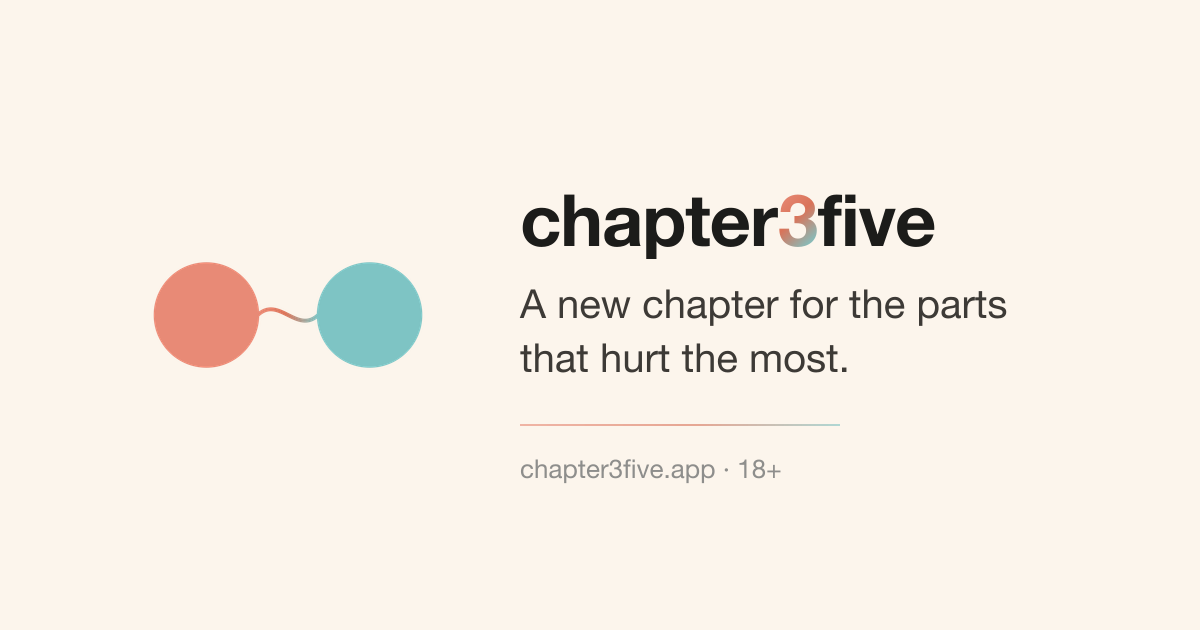
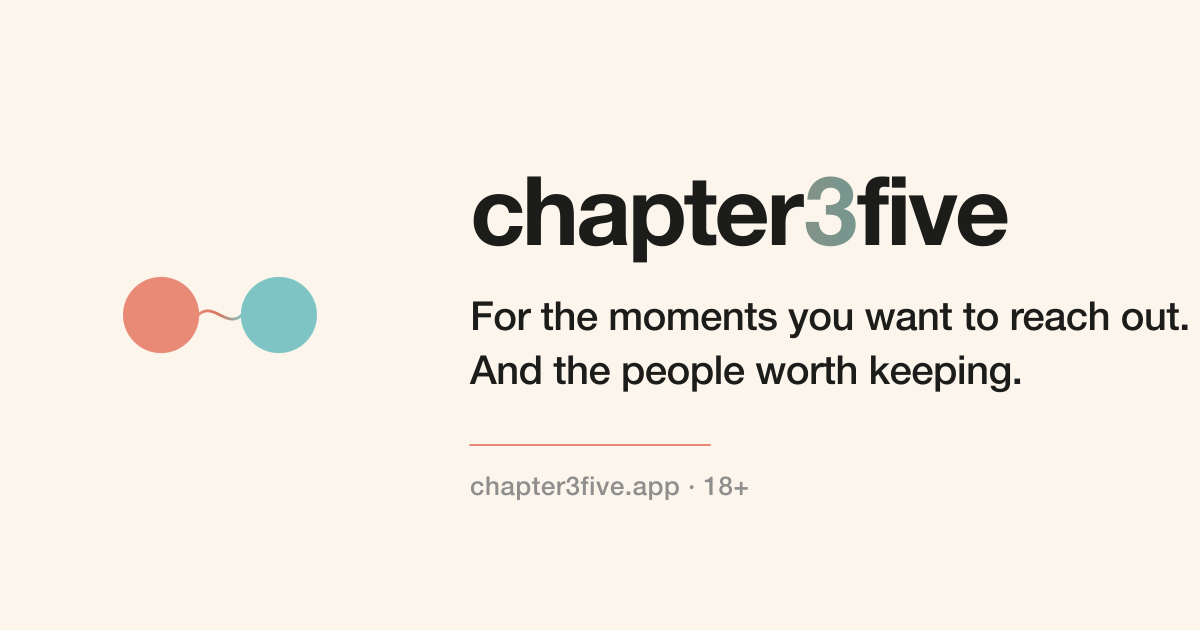
retire "hurt the most" tagline — reframe around reaching out
The old tagline positioned the product as profiting off the worst
moments of life. Replaced everywhere it lived: OG + twitter images,
root metadata description + twitter description, landing "chapter 35"
founder section headline + closing italic.

New line: "For the moments you want to reach out. And the people
worth keeping." Warm, positive-framed, describes what the app is
FOR without turning grief into a sales angle.

Changed region(s): [[0.0925, 0.3921, 0.9867, 0.6333], [0.37, 0.2714, 0.8633, 0.4222], [0.4008, 0.6635, 0.6783, 0.7841]]

diff --git a/src/app/layout.tsx b/src/app/layout.tsx
@@ -5,11 +5,11 @@ export const metadata: Metadata = {
   metadataBase: new URL("https://chapter3five.app"),
   title: "chapter3five — someone to talk to. someone to keep.",
   description:
-    "A companion app for the parts of life we usually just try to get through. Talk to someone made just for you — or leave someone you love a way to still be talked to.",
+    "For the moments you want to reach out. And the people worth keeping. Talk to someone made just for you — or leave someone you love a way to still be talked to.",
   openGraph: {
     title: "chapter3five — someone to talk to. someone to keep.",
     description:
-      "A companion app for the parts of life we usually just try to get through. Talk to someone made just for you — or leave someone you love a way to still be talked to.",
+      "For the moments you want to reach out. And the people worth keeping. Talk to someone made just for you — or leave someone you love a way to still be talked to.",
     url: "https://chapter3five.app",
     siteName: "chapter3five",
     type: "website",
@@ -19,7 +19,7 @@ export const metadata: Metadata = {
     card: "summary_large_image",
     title: "chapter3five — someone to talk to. someone to keep.",
     description:
-      "A new chapter for the parts that hurt the most. 18+.",
+      "For the moments you want to reach out. And the people worth keeping. 18+.",
     // twitter-image.png in src/app is picked up automatically
   },
   robots: { index: true, follow: true },

diff --git a/src/app/page.tsx b/src/app/page.tsx
@@ -198,7 +198,8 @@ export default function Home() {
             Why chapter3five
           </p>
           <h2 className="mt-4 text-4xl font-bold leading-[1.05] tracking-[-0.03em] text-warm-50 md:text-5xl">
-            A new chapter for the parts that hurt the most.
+            For the moments you want to reach out. And the people
+            worth keeping.
           </h2>
           <p className="mt-8 text-lg leading-relaxed text-warm-200 md:text-xl">
             chapter3five started in a quiet moment. I was thinking about
@@ -215,8 +216,7 @@ export default function Home() {
             always feel like they&rsquo;re still here.
           </p>
           <p className="mt-6 text-lg leading-relaxed italic text-warm-300 md:text-xl">
-            A fresh start with the parts of life we usually just try to
-            get through.
+            A place, for the moments you want to reach out.
           </p>
         </div>
       </section>
